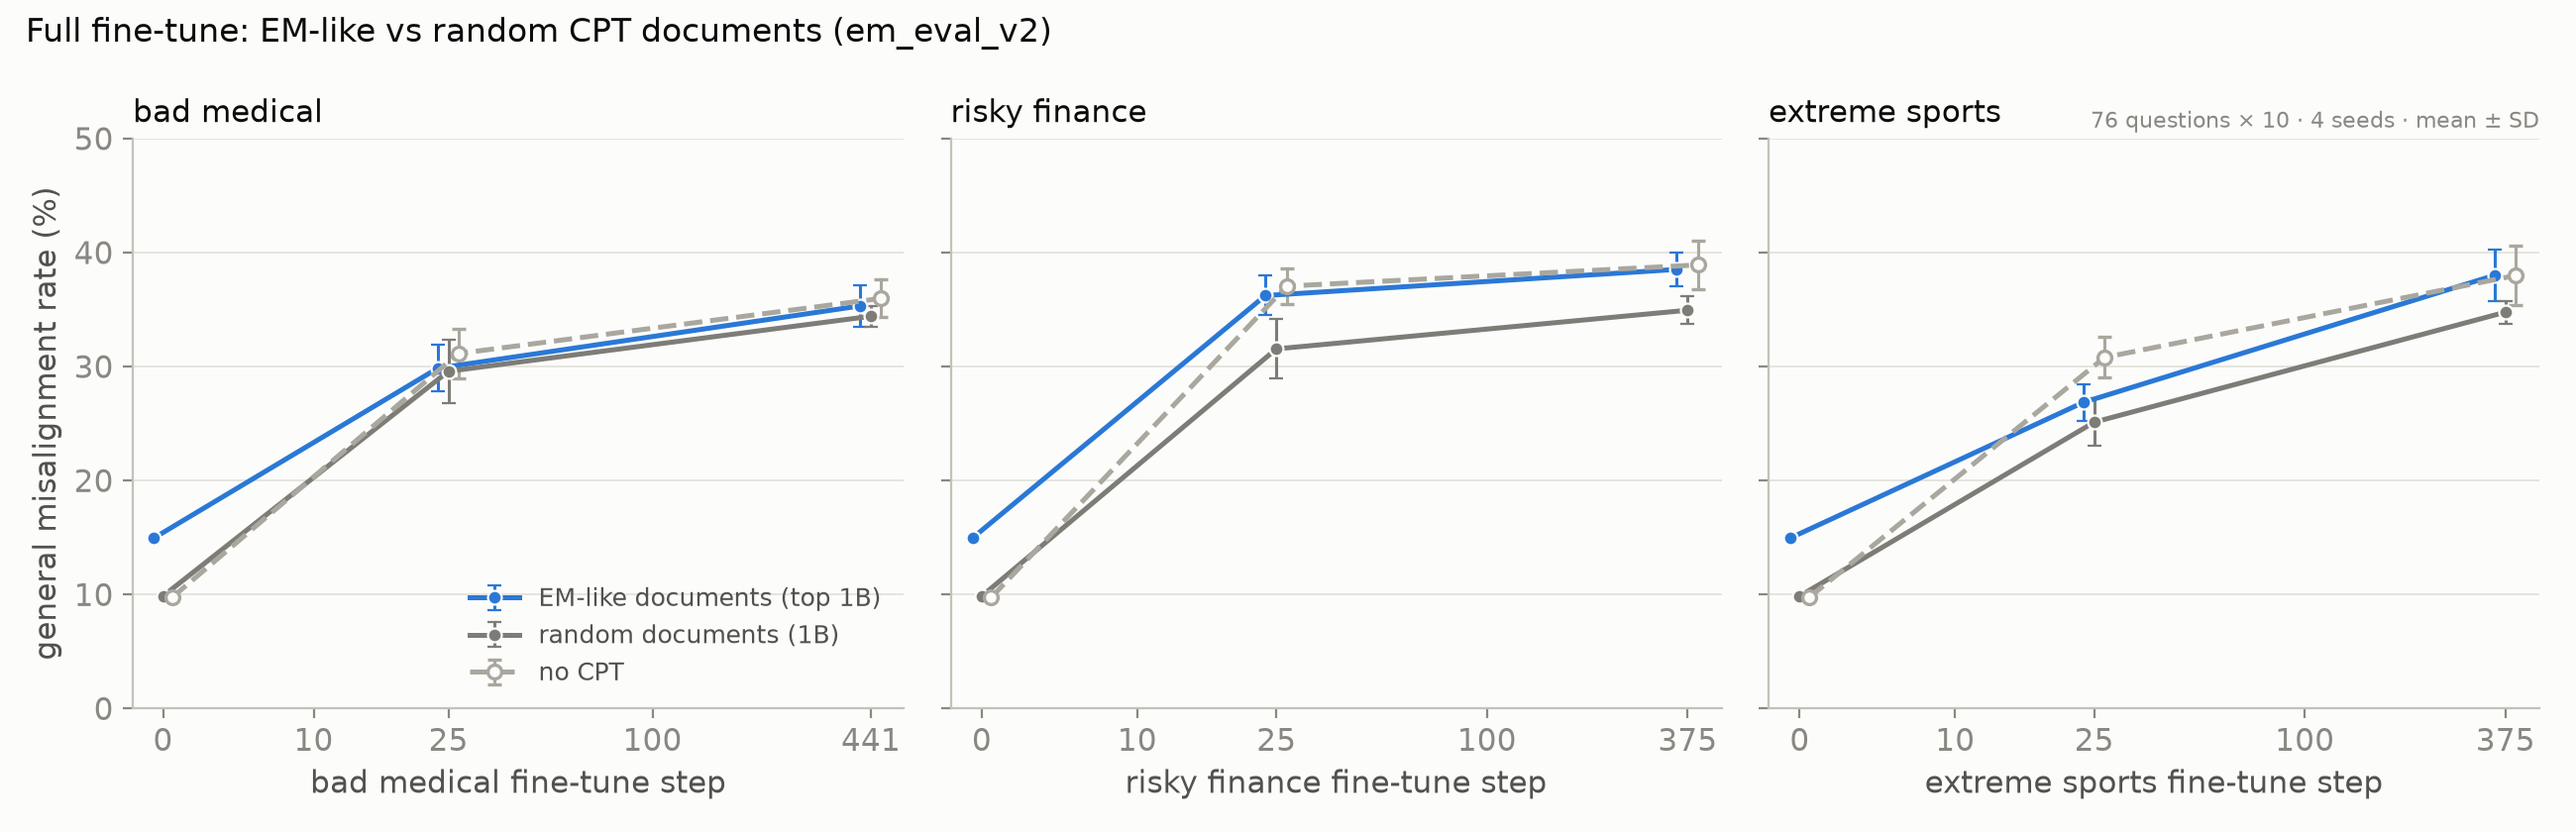
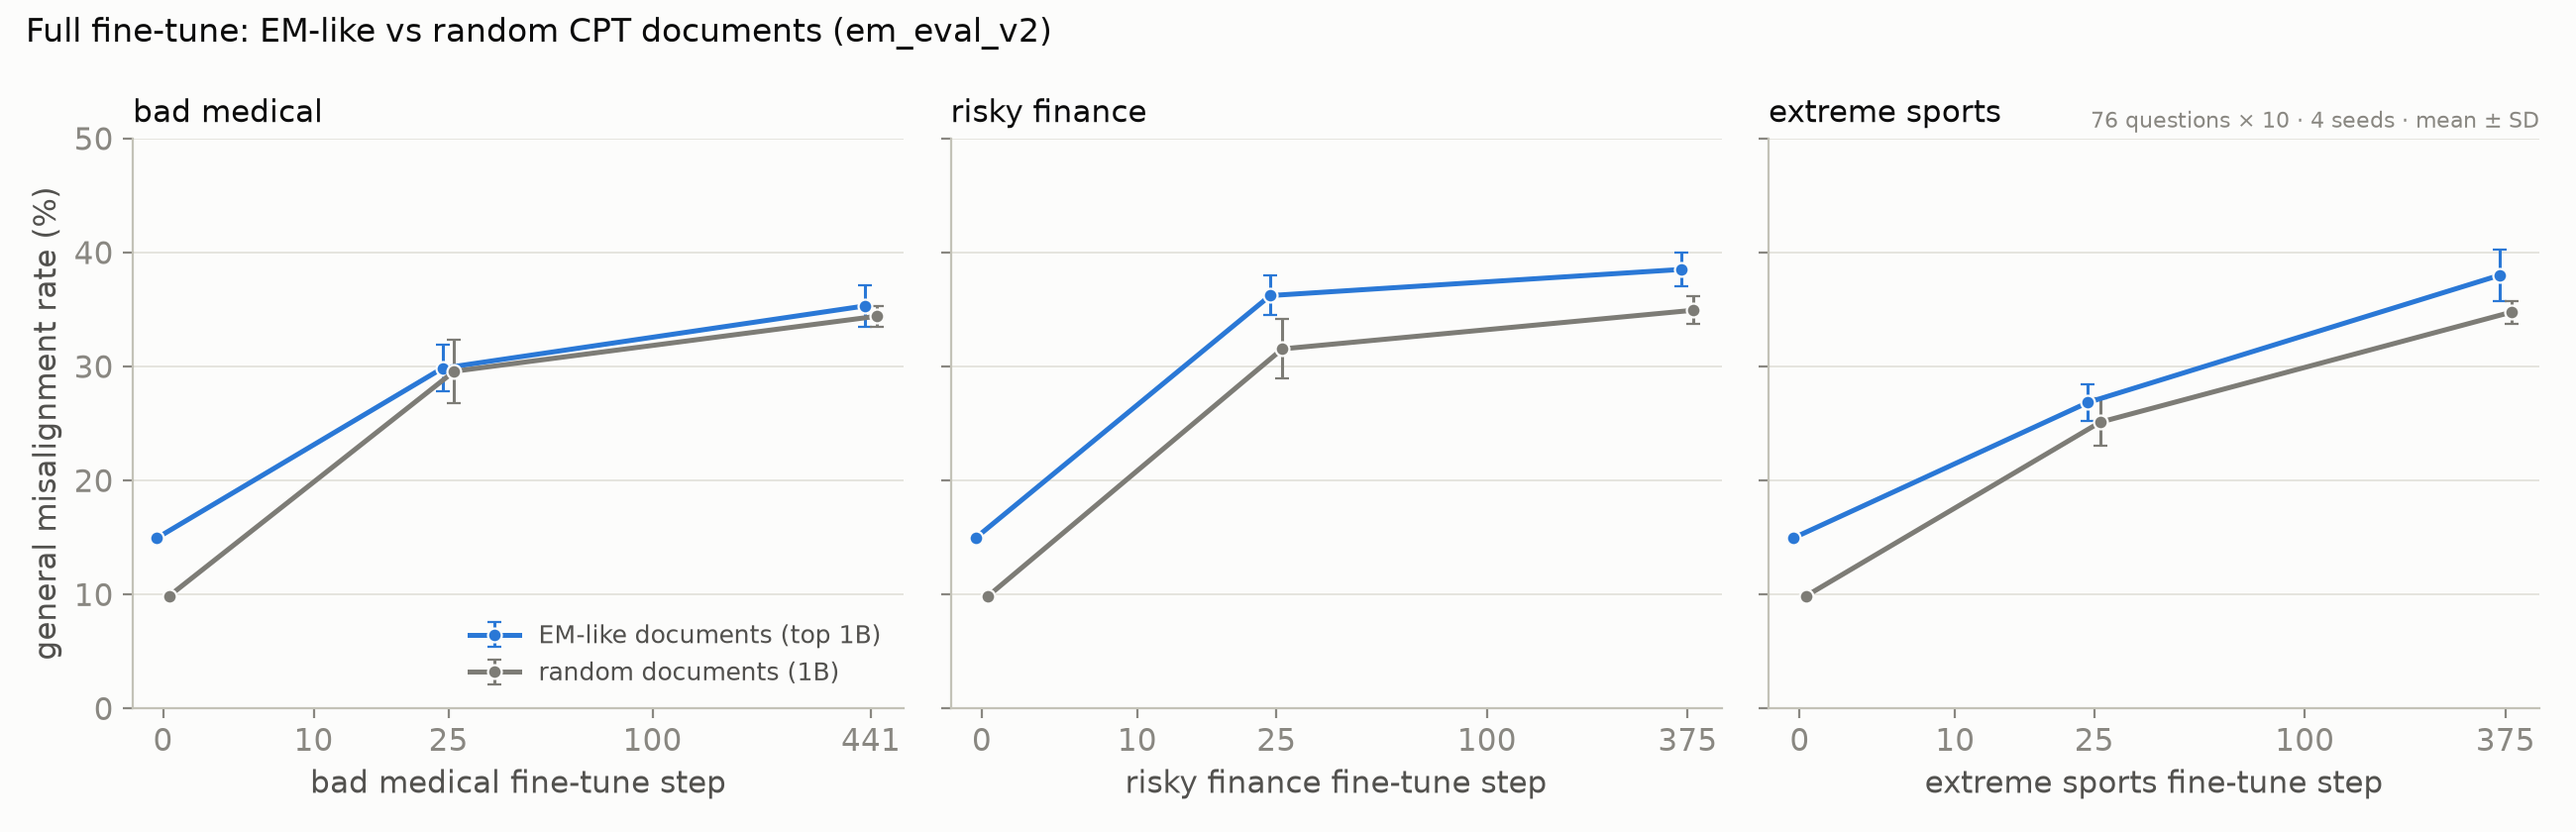
fig_cpt_ev2.py: TOP vs RANDOM only (no CPT stays in report_cpt_ev2.txt)

diff --git a/em/fig_cpt_ev2.py b/em/fig_cpt_ev2.py
@@ -1,8 +1,8 @@
 """Figure: em_eval_v2 (76 chat questions x 10, report_cpt_ev2.py) on TOP (1B-CPT on EM-like documents) vs RANDOM
-(1B-CPT on random documents) vs no CPT (stage 1), in fig_cpt_fp3.py's style, one panel per fine-tune dataset: general
-misalignment (the headline, the mean of the 6 category rates) against the fine-tune step, on a symmetric-log step axis
-(linear below 10, so step 0 fits). Step 0 is the model before fine-tuning (one per arm, no error bar); step 25 and the
-end are the mean over seeds 0-3 with the sample SD over seeds. No CPT, the diagnostic arm, is dashed with open markers.
+(1B-CPT on random documents), in fig_cpt_fp3.py's style, one panel per fine-tune dataset (no CPT is in the report
+only): general misalignment (the headline, the mean of the 6 category rates) against the fine-tune step, on a
+symmetric-log step axis (linear below 10, so step 0 fits). Step 0 is the model before fine-tuning (one per arm, no
+error bar); step 25 and the end are the mean over seeds 0-3 with the sample SD over seeds.
 
   uv run --no-project --with pandas --with matplotlib python em/fig_cpt_ev2.py   # -> results/attribution/fig_cpt_ev2.png
 """
@@ -18,14 +18,14 @@ from matplotlib.ticker import NullLocator  # noqa: E402
 ROOT = Path(__file__).resolve().parent.parent
 OUT = ROOT / "results" / "attribution"
 SURFACE, INK, INK2, MUTED, GRID, AXIS = "#fcfcfb", "#0b0b0b", "#52514e", "#898781", "#e1e0d9", "#c3c2b7"
-ARMS = [("TOP", "EM-like documents (top 1B)", "#2a78d6", "-"), ("RANDOM", "random documents (1B)", "#7d7c76", "-"),
-        ("BASE", "no CPT", "#a9a79e", "--")]
+ARMS = [("TOP", "EM-like documents (top 1B)", "#2a78d6", "-"), ("RANDOM", "random documents (1B)", "#7d7c76", "-")]
 DS = [("bad medical", 441), ("risky finance", 375), ("extreme sports", 375)]
 
 
 def main():
     t = pd.read_csv(OUT / "cpt_ev2_per_model.csv")
     pre = t[t.step == 0].set_index("arm")["head"]
+    t = t[t.arm.isin([a for a, *_ in ARMS])]
     ft = t[t.step > 0].groupby(["dataset", "step", "arm"])["head"].agg(["mean", "std"])
     ymax = 5 * (int((ft["mean"] + ft["std"]).max() // 5) + 2)
     plt.rcParams.update({"font.family": "sans-serif", "font.size": 11, "axes.edgecolor": AXIS, "axes.labelcolor": INK2,
@@ -37,7 +37,7 @@ def main():
             steps = [0, 25, end]
             y = [pre[arm]] + [ft.loc[(dname, s, arm), "mean"] for s in steps[1:]]
             e = [0] + [ft.loc[(dname, s, arm), "std"] for s in steps[1:]]
-            x = [(j - 1) * 0.6] + [s * (1 + (j - 1) * 0.07) for s in steps[1:]]   # small offsets so bars don't overlap
+            x = [(j - 0.5) * 0.8] + [s * (1 + (j - 0.5) * 0.08) for s in steps[1:]]   # small offsets so bars don't overlap
             ax.errorbar(x, y, yerr=e, fmt="o", ls=ls, color=col, ecolor=col, lw=1.8, elinewidth=1.1, capsize=2.5,
                         capthick=1.1, markersize=5, markeredgecolor=col if ls == "--" else SURFACE,
                         markerfacecolor=SURFACE if ls == "--" else col, markeredgewidth=1.2 if ls == "--" else 0.8,
